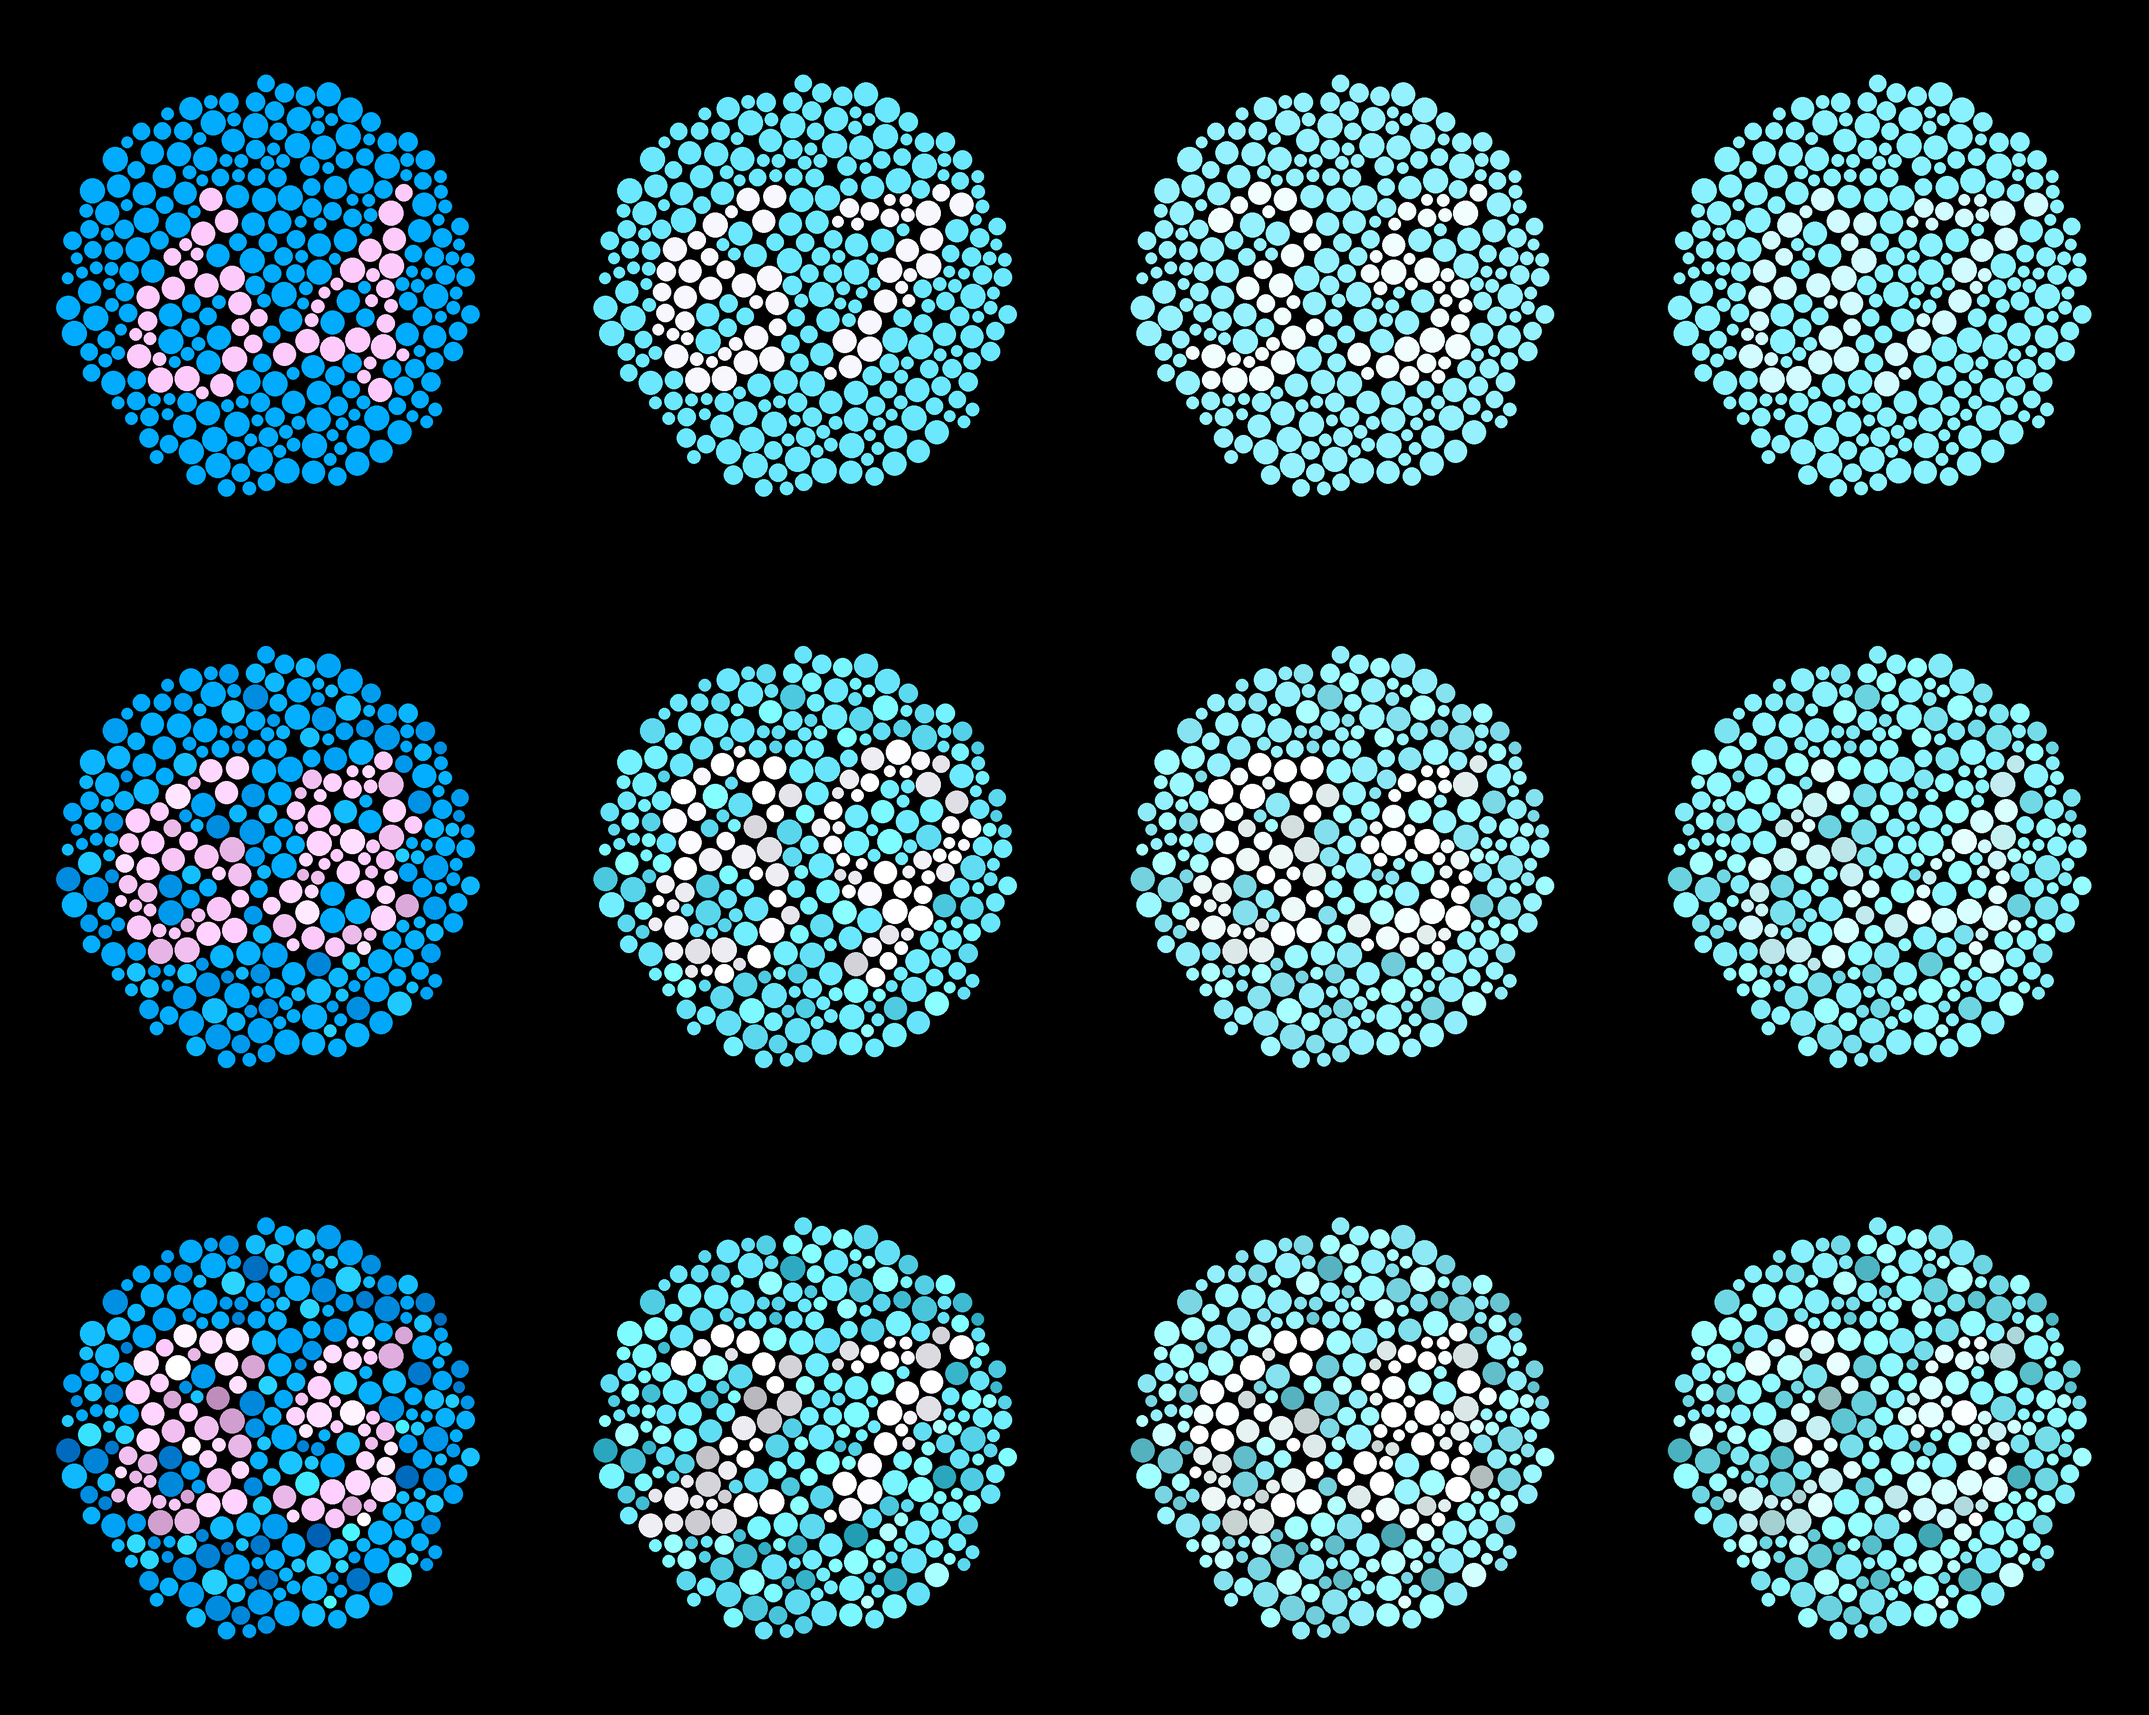
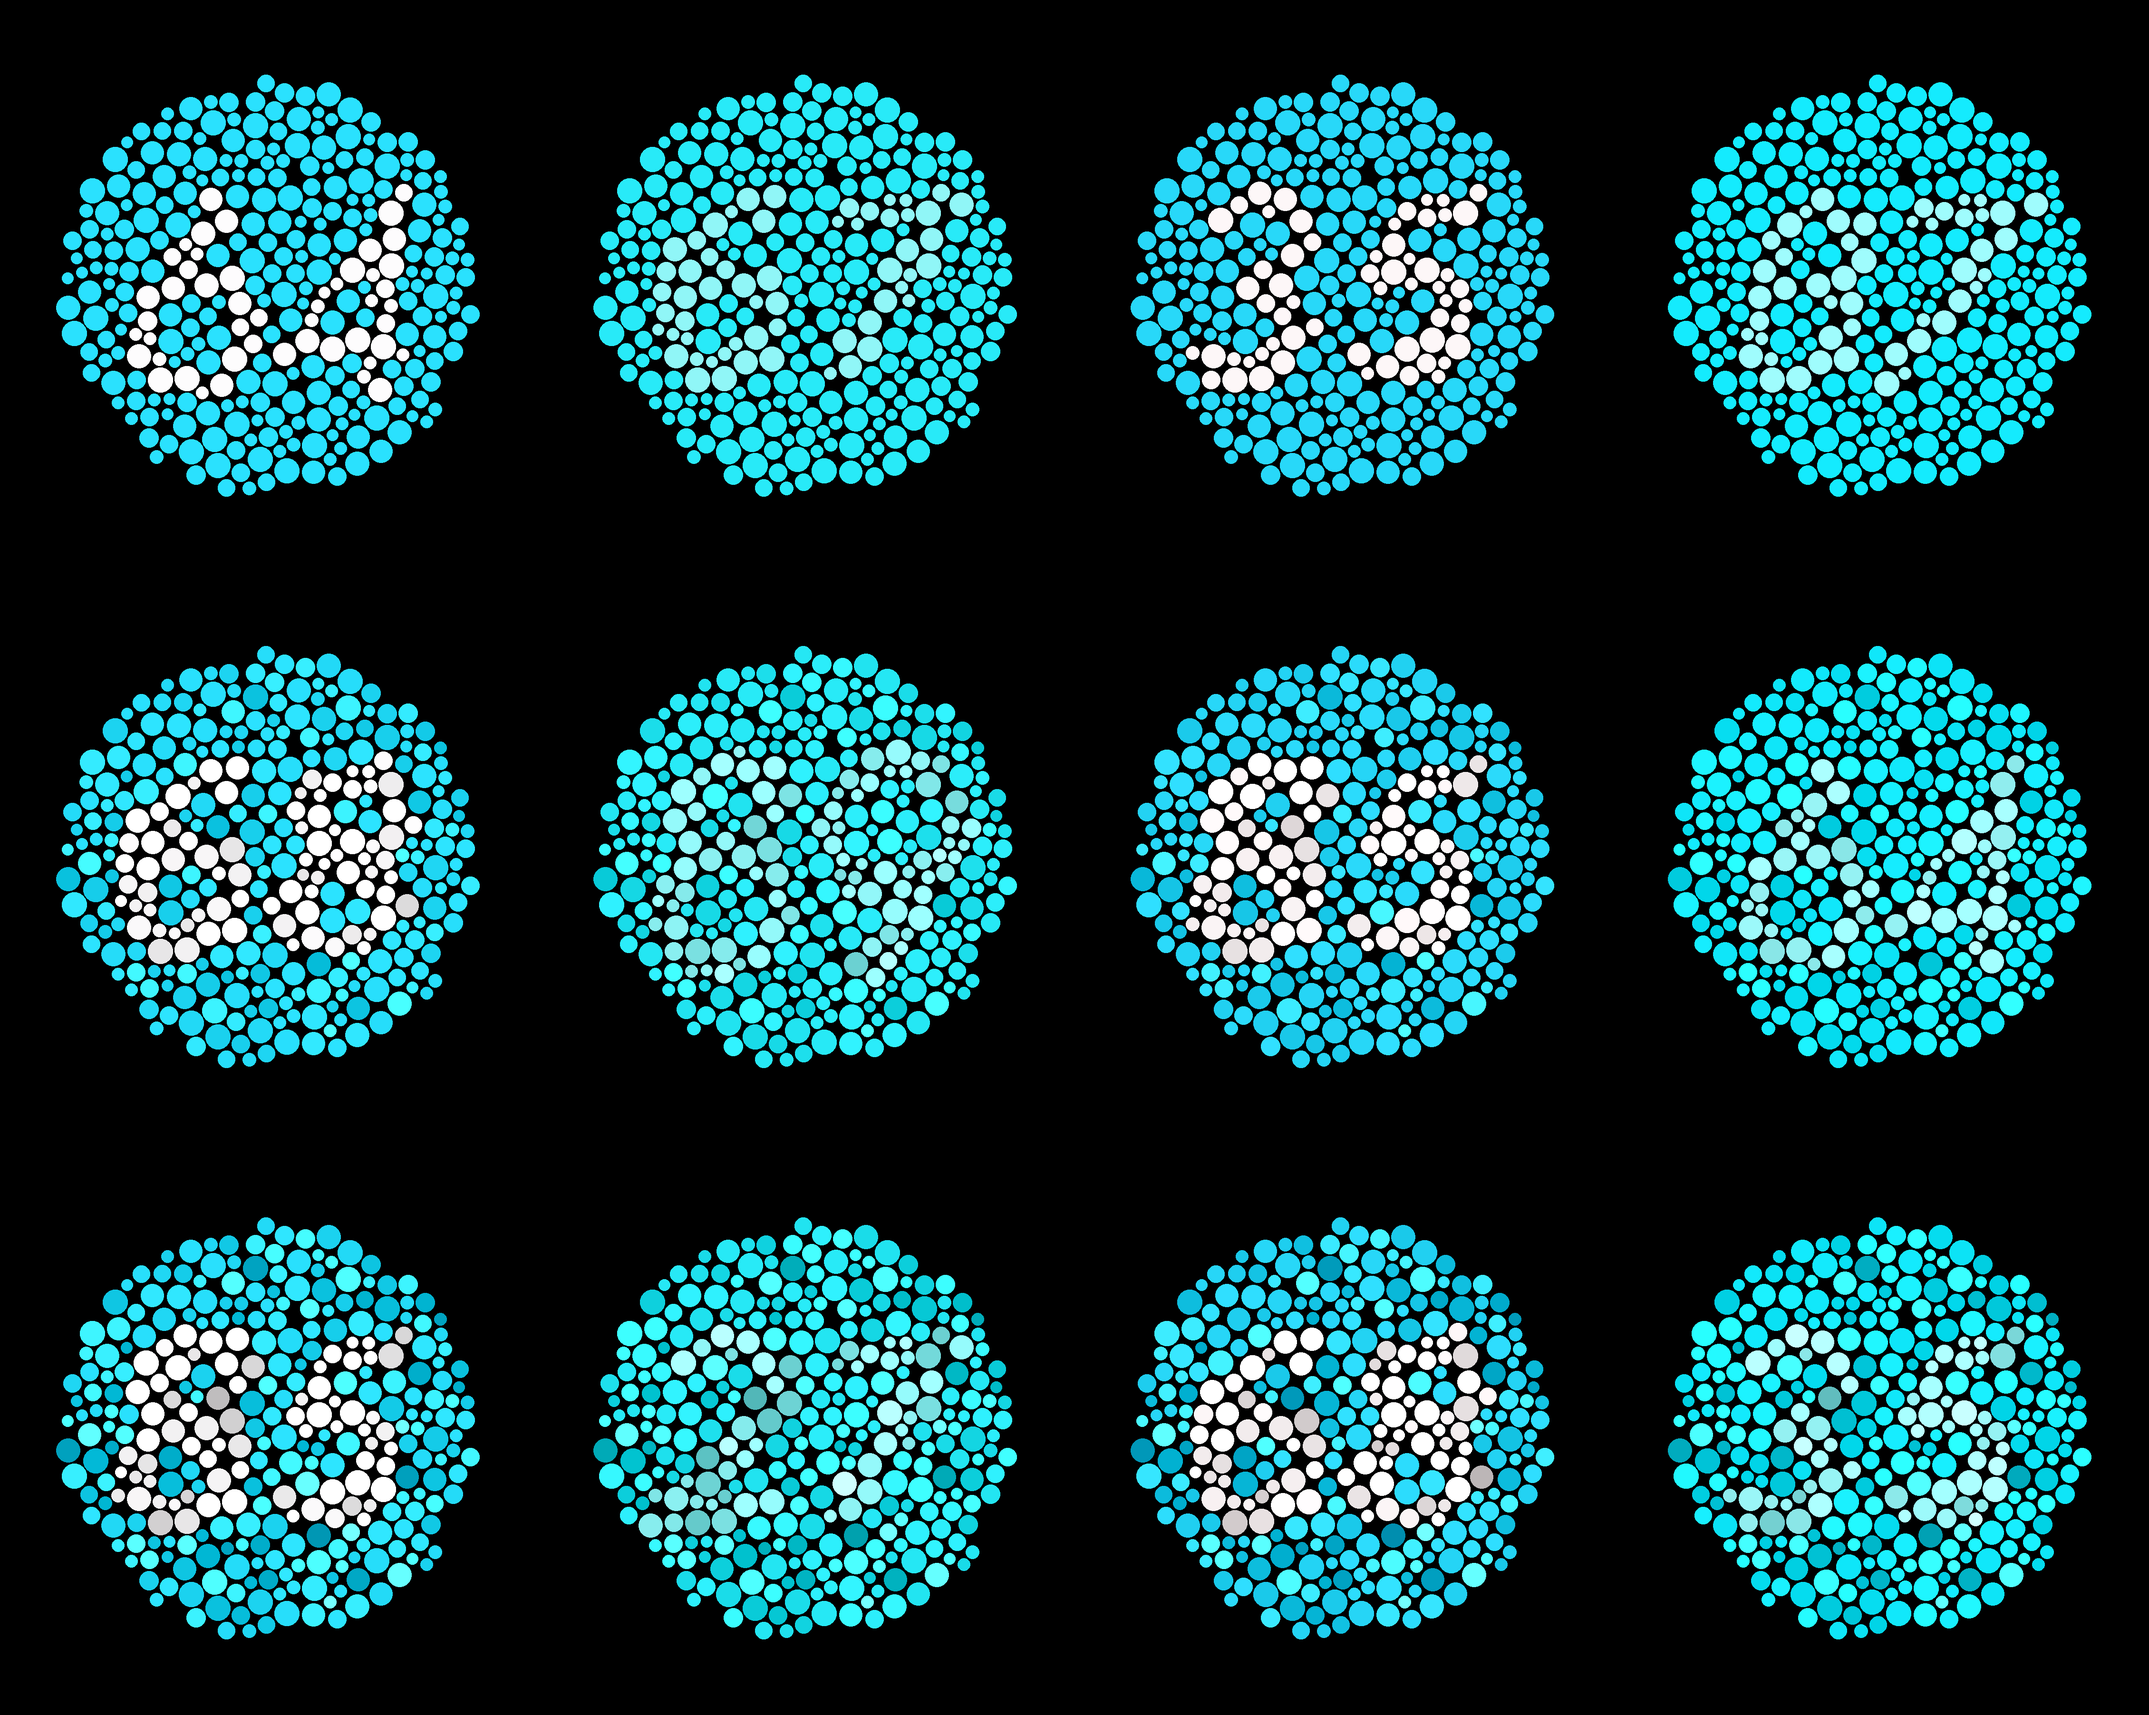
update

diff --git a/src/apps/AppTetraHueSphere.cpp b/src/apps/AppTetraHueSphere.cpp
@@ -28,8 +28,11 @@ const char* FRAGMENT_SHADER_PATH = "../assets/apps/AppTetraHueSphere/shader.frag
 // const char* HUE_SPHERE_MODEL_PATH = "../assets/apps/AppTetraHueSphere/ugly_sphere.obj";
 
 const char* HUE_SPHERE_UGLY_MODEL_PATH = "../assets/apps/AppTetraHueSphere/fibonacci_sampled.obj";
-const char* HUE_SPHERE_UGLY_TEXTURE_PATH_RGB = "../assets/apps/AppTetraHueSphere/cubemaps/test_RGB_cube_map.png";
-const char* HUE_SPHERE_UGLY_TEXTURE_PATH_OCV = "../assets/apps/AppTetraHueSphere/cubemaps/test_OCV_cube_map.png";
+// const char* HUE_SPHERE_UGLY_TEXTURE_PATH_RGB = "../assets/apps/AppTetraHueSphere/cubemaps/cubemap_RGB.png";
+// const char* HUE_SPHERE_UGLY_TEXTURE_PATH_OCV = "../assets/apps/AppTetraHueSphere/cubemaps/cubemap_OCV.png";
+
+const char* HUE_SPHERE_UGLY_TEXTURE_PATH_RGB = "../assets/apps/AppTetraHueSphere/cubemaps/test_RGB.png";
+const char* HUE_SPHERE_UGLY_TEXTURE_PATH_OCV = "../assets/apps/AppTetraHueSphere/cubemaps/test_OCV.png";
 
 const char* HUE_SPHERE_PRETTY_MODEL_PATH = "../assets/apps/AppTetraHueSphere/pretty_sphere.obj";
 const char* HUE_SPHERE_PRETTY_TEXTURE_PATH_RGB = HUE_SPHERE_UGLY_TEXTURE_PATH_RGB;
@@ -164,7 +167,9 @@ void AppTetraHueSphere::TickImGui(const TetriumApp::TickContextImGui& ctx)
 
     // rotate hue sphere
 
-    _rasterizationCtx.hueSpheretransform.rotation.z
+    // TODO: this is a temp hack to work around non-commutative rotation
+    // use quaternions instead in the future for transform
+    _rasterizationCtx.hueSpheretransform.rotation.y
         += io.DeltaTime * _rasterizationCtx.sphereRotationSpeed * 50.f;
 }
 
@@ -655,6 +660,8 @@ void AppTetraHueSphere::initRasterization(TetriumApp::InitContext& initCtx)
             _rasterizationCtx.prettySphereMesh.indexBuffer
         );
     }
+
+    _rasterizationCtx.hueSpheretransform.rotation = glm::vec3(90,0, 0);
 }
 
 void AppTetraHueSphere::cleanupRasterization(TetriumApp::CleanupContext& cleanupCtx)

diff --git a/src/main.cpp b/src/main.cpp
@@ -32,7 +32,7 @@ int main(int argc, char** argv)
 
     TetriumColor::Init();
 
-    Tetrium::InitOptions options{.tetraMode = Tetrium::TetraMode::kEvenOddSoftwareSync};
+    Tetrium::InitOptions options{.tetraMode = Tetrium::TetraMode::kEvenOddHardwareSync};
     Tetrium engine;
 
     for (auto& [app, appName] : apps) {
